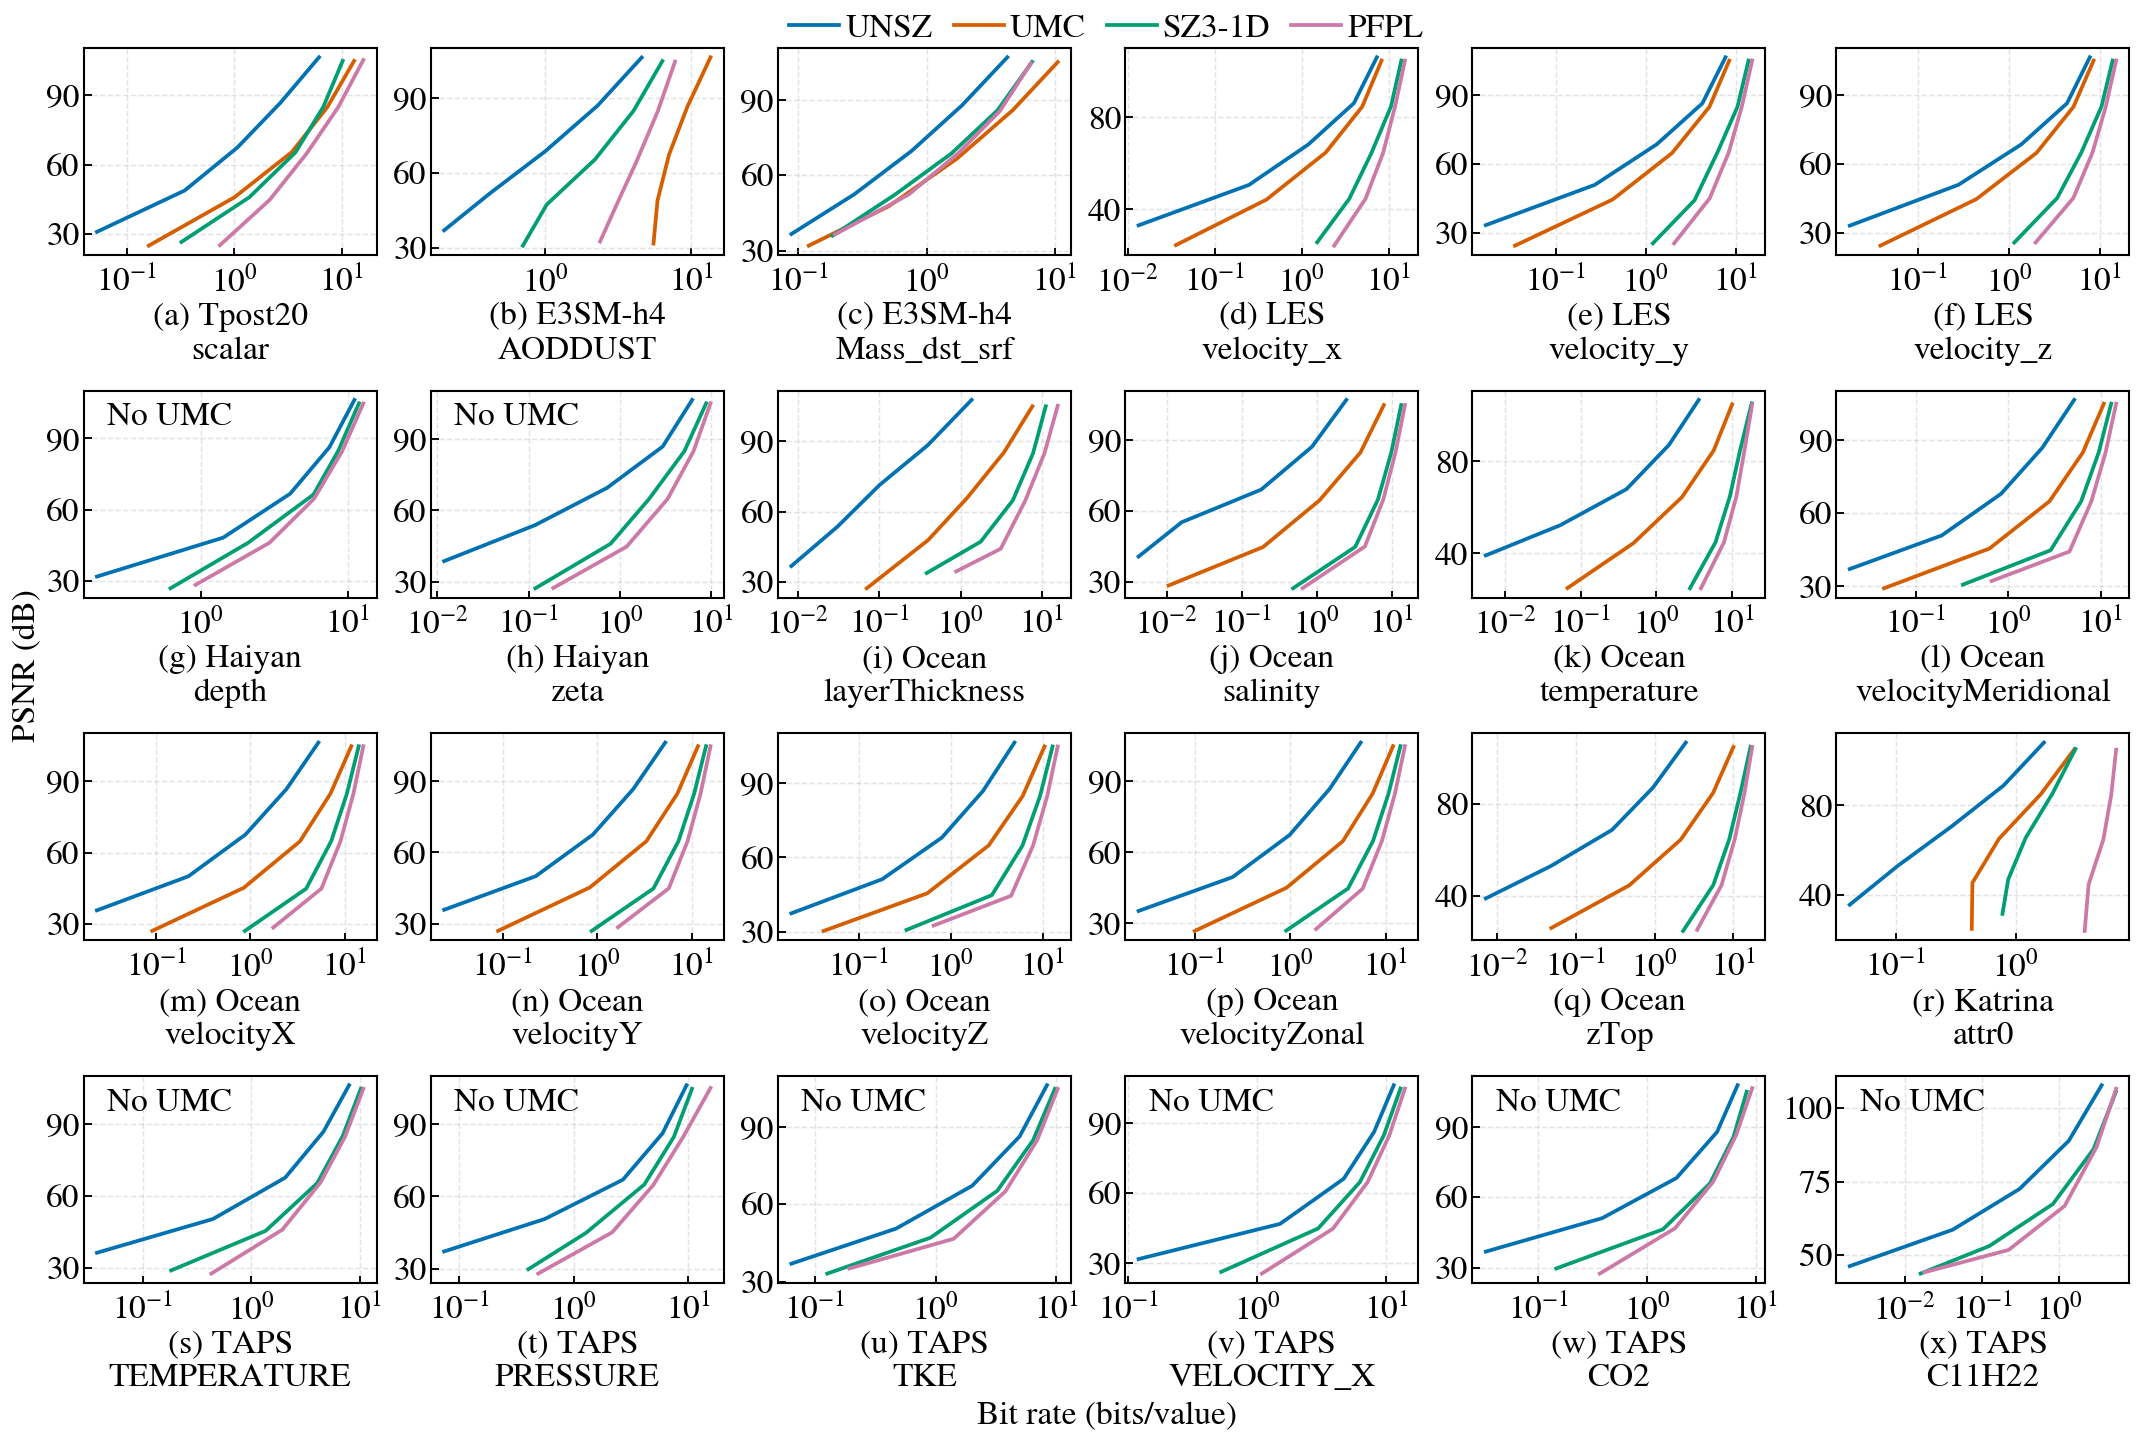
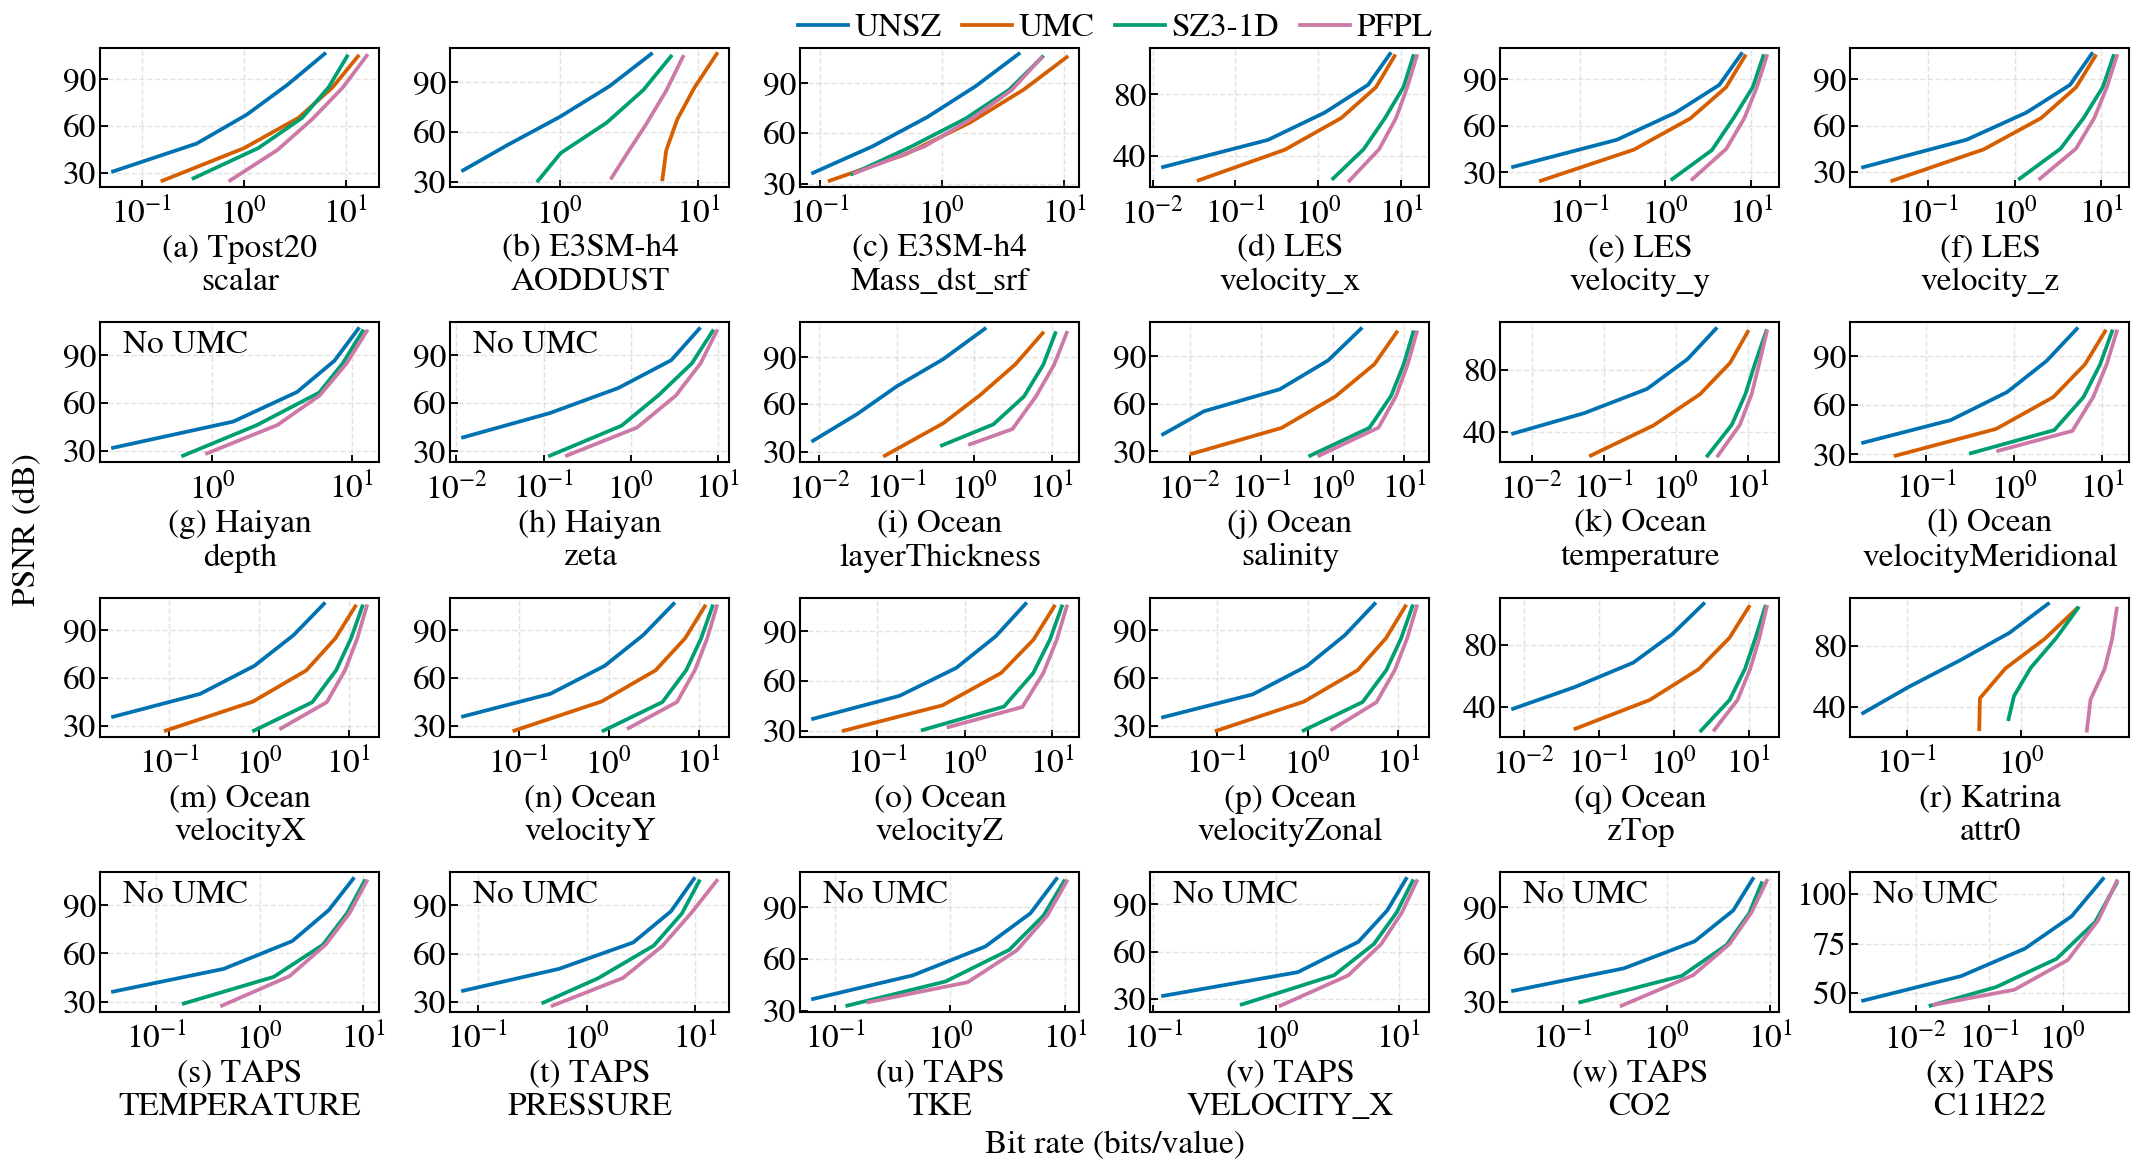
Trim the paper toward 12 pages
- Replace the input-format table with a figure of the subset relations and trim the format descriptions in Section II-B.
- Shorten Section II-D and state the exclusion reason of each unstructured compressor separately.
- Merge the two core-division tables of Sections VI-D and VI-E.
- Flatten the panels of Figures 7-10 (2:1 for the 24-field grids, sqrt(2) and 2sqrt(2) for Ocean-large).

Changed region(s): [[0.0, 0.0, 1.0, 1.0]]

diff --git a/py_codes/plot_current_benchmarks.py b/py_codes/plot_current_benchmarks.py
@@ -21,6 +21,8 @@ compressor_styles={"unsz":{"label":"UNSZ","color":"#0072B2","marker":"s"},"umc":
 tensor_1d_codecs=("sz3_1d","pfpl")
 unsz_time_components=(("compression_preprocessing_time","Compression preprocessing","#56B4E9"),("compression_time","Compression","#0072B2"),("decompression_preprocessing_time","Decompression preprocessing","#E69F00"),("decompression_time","Decompression","#D55E00"))
 umc_time_components=(("compression_preprocessing_time","Compression preprocessing","#56B4E9"),("compression_time","Compression","#0072B2"),("decompression_preprocessing_time","Decompression preprocessing","#E69F00"),("decompression_time","Decompression","#D55E00"))
+# 4x6网格中每个子图绘图区的宽高比；比默认的sqrt(2)更扁，以节省论文篇幅
+grid_panel_aspect_ratio=2.0
 # 耗时堆叠柱：颜色区分压缩器，浅色为预处理、深色为压缩或解压，斜线为解压一侧
 time_stage_labels=(("compression_preprocessing_time","Compression preprocessing"),("compression_time","Compression"),("decompression_preprocessing_time","Decompression preprocessing"),("decompression_time","Decompression"))
 unavailable_bar_style={"color":".85","hatch":"xxxxxx"}
@@ -206,7 +208,7 @@ def plot_rd(fields,tensor_1d_rows,output_dir,column_num=6):
             axis.set_axisbelow(True)
             axis.grid(True,which="major",linestyle="--",linewidth=.35,alpha=.35)
             style_plot_axis(axis)
-        layout_panel_grid(figure,axes,panel_aspect_ratios(*[1]*column_num),bottom_pt=60,column_gap_pt=PANEL_GAP_WITH_YTICKS_PT,row_content_gap_pt=6,left_edge_gap_pt=shared_ylabel_left_edge_pt(figure,ylabel),right_edge_gap_pt=3)
+        layout_panel_grid(figure,axes,panel_aspect_ratios(*[1]*column_num,unit_aspect_ratio=grid_panel_aspect_ratio),bottom_pt=60,column_gap_pt=PANEL_GAP_WITH_YTICKS_PT,row_content_gap_pt=6,left_edge_gap_pt=shared_ylabel_left_edge_pt(figure,ylabel),right_edge_gap_pt=3)
         for row in axes:
             align_xlabels(figure,row)
         add_shared_ylabel(figure,axes[:,0],ylabel)
@@ -258,7 +260,7 @@ def plot_time_by_eb(fields,tensor_1d_rows,output_dir,column_num=6):
             axis.set_axisbelow(True)
             axis.grid(True,axis="y",which="major",linestyle="--",linewidth=.35,alpha=.35)
             style_plot_axis(axis)
-        layout_panel_grid(figure,axes,panel_aspect_ratios(*[1]*column_num),bottom_pt=60,column_gap_pt=PANEL_GAP_WITH_YTICKS_PT,row_content_gap_pt=6,left_edge_gap_pt=shared_ylabel_left_edge_pt(figure,ylabel),right_edge_gap_pt=3)
+        layout_panel_grid(figure,axes,panel_aspect_ratios(*[1]*column_num,unit_aspect_ratio=grid_panel_aspect_ratio),bottom_pt=60,column_gap_pt=PANEL_GAP_WITH_YTICKS_PT,row_content_gap_pt=6,left_edge_gap_pt=shared_ylabel_left_edge_pt(figure,ylabel),right_edge_gap_pt=3)
         for row in axes:
             align_xlabels(figure,row)
         add_shared_ylabel(figure,axes[:,0],ylabel)

diff --git a/py_codes/plot_ocean_large.py b/py_codes/plot_ocean_large.py
@@ -161,7 +161,7 @@ def plot_summary(runs,mode,output_path):
             axis.yaxis.set_minor_locator(NullLocator())
             axis.set_axisbelow(True)
             style_plot_axis(axis)
-        layout_panel_row(figure,axes,panel_aspect_ratios(1,1.5),bottom_pt=40,panel_gap_pt=PANEL_GAP_WITH_YLABEL_PT,left_edge_gap_pt=3,right_edge_gap_pt=3)
+        layout_panel_row(figure,axes,panel_aspect_ratios(1,2),bottom_pt=40,panel_gap_pt=PANEL_GAP_WITH_YLABEL_PT,left_edge_gap_pt=3,right_edge_gap_pt=3)
         # 两组图例各自居中：下面是压缩器的颜色，上面是耗时阶段
         codec_handles=[Patch(facecolor=styles[codec][0],edgecolor="black",linewidth=.3,label=codec) for codec in runs]
         codec_legend=add_top_legend(figure,[axes],codec_handles,gap_pt=3,ncol=len(runs),**legend_spacing_kwargs(8))
